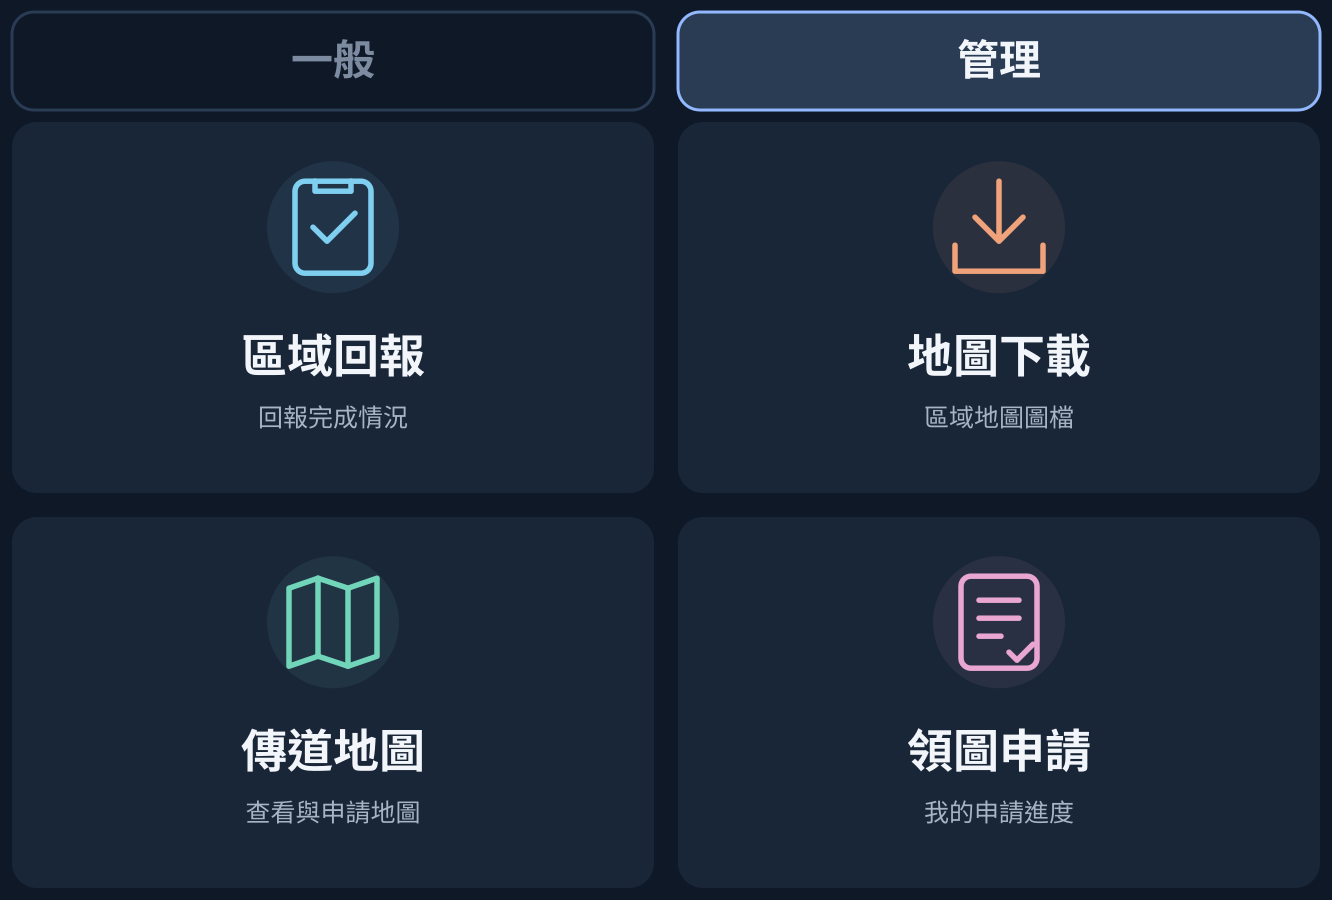
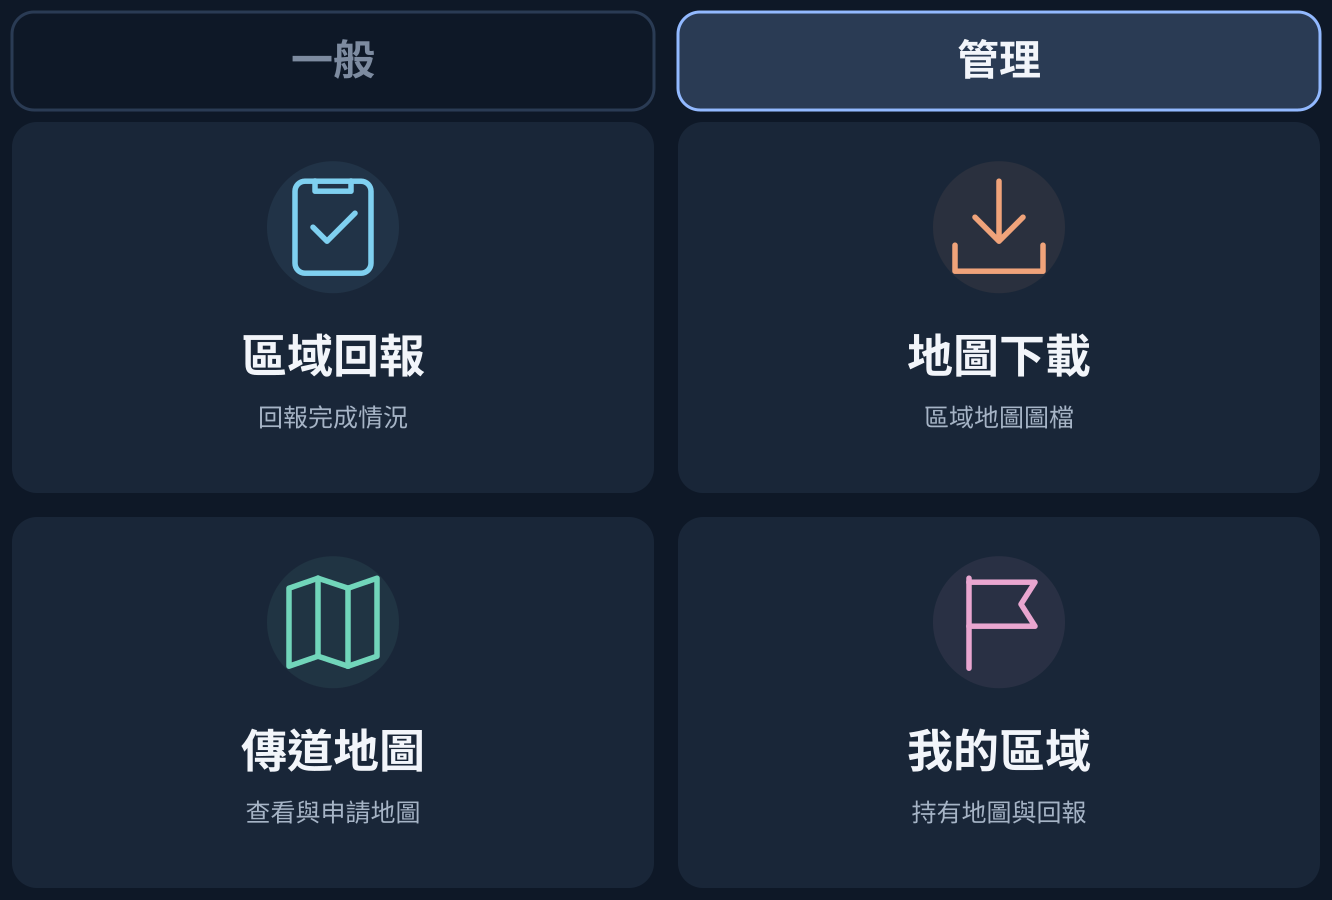
feat: LINE 管理頁領圖申請格改為我的區域，選單升 v10（ADR-0125） (#89)
Claude-Session: https://claude.ai/code/session_01XDbjwN3A75eVUCukCexrnW

Changed region(s): [[0.6772, 0.8089, 0.8311, 0.9333], [0.708, 0.6222, 0.8003, 0.7467]]

diff --git a/src/lib/line-rich-menu.ts b/src/lib/line-rich-menu.ts
@@ -12,9 +12,9 @@ export type MenuKey = 'sister' | 'brother-general' | 'brother-manage' | 'admin-g
 export const menuKeys: MenuKey[] = ['sister', 'brother-general', 'brother-manage', 'admin-general', 'admin-manage']
 const tabbedKeys = menuKeys.filter(key => key !== 'sister') as Exclude<MenuKey, 'sister'>[]
 const liffId = configuredLiffId()
-const stateKey = (key: MenuKey) => liffId ? `line_rich_menu_v9_${key}_liff_${liffId}` : `line_rich_menu_v9_${key}`
+const stateKey = (key: MenuKey) => liffId ? `line_rich_menu_v10_${key}_liff_${liffId}` : `line_rich_menu_v10_${key}`
 // Alias ids are per channel: [a-z0-9_-], at most 32 characters.
-export const aliasId = (key: MenuKey) => `cms-v9-${key}`
+export const aliasId = (key: MenuKey) => `cms-v10-${key}`
 const menuUrl = (view: string) => liffId ? `https://liff.line.me/${liffId}/?view=${view}` : `${botSite}${liffDestination(view)}`
 const lockKey = 'line_rich_menu_publish_lock'
 const api = 'https://api.line.me/v2/bot'
@@ -23,7 +23,7 @@ const uri = (view: string) => ({ type: 'uri' as const, uri: menuUrl(view) })
 const tiles: Record<string, { type: 'uri'; uri: string } | { type: 'message'; text: string }> = {
   publicTalks: uri('public-talks'), midweekMeeting: uri('midweek-meeting'), announcementsView: uri('announcements'), groups: uri('ministry-groups'),
   meetingPoints: uri('meeting-points'), serviceRoster: uri('service-roster'), dashboard: uri('dashboard'), assignments: { type: 'message', text: '我的委派' }, territory: uri('territory'),
-  report: uri('report'), mapDownload: uri('map-images'), myRequests: uri('requests'),
+  report: uri('report'), mapDownload: uri('map-images'), myAreas: uri('maps'),
   roster: uri('roster'), midweek: uri('midweek'), announcements: uri('manage-announcements'), members: uri('members'),
 }
 // Same rows and sizes as scripts/create-line-menu.cjs, which draws the images.
@@ -31,9 +31,9 @@ const general = [['publicTalks', 'midweekMeeting', 'announcementsView', 'groups'
 const layouts: Record<MenuKey, { width: number; height: number; label: string; tab: 'general' | 'manage' | null; rows: string[][] }> = {
   sister: { width: 1332, height: 674, label: '一般', tab: null, rows: general },
   'brother-general': { width: 1332, height: 900, label: '弟兄一般', tab: 'general', rows: general },
-  'brother-manage': { width: 1332, height: 900, label: '弟兄管理', tab: 'manage', rows: [['report', 'mapDownload'], ['territory', 'myRequests']] },
+  'brother-manage': { width: 1332, height: 900, label: '弟兄管理', tab: 'manage', rows: [['report', 'mapDownload'], ['territory', 'myAreas']] },
   'admin-general': { width: 1332, height: 900, label: '管理者一般', tab: 'general', rows: general },
-  'admin-manage': { width: 1332, height: 900, label: '管理者管理', tab: 'manage', rows: [['report', 'mapDownload', 'roster', 'midweek'], ['territory', 'myRequests', 'announcements', 'members']] },
+  'admin-manage': { width: 1332, height: 900, label: '管理者管理', tab: 'manage', rows: [['report', 'mapDownload', 'roster', 'midweek'], ['territory', 'myAreas', 'announcements', 'members']] },
 }
 const BAR = 110
 function definition(key: MenuKey) {
@@ -46,7 +46,7 @@ function definition(key: MenuKey) {
   })) : []
   return {
     size: { width, height }, selected: true,
-    name: `楠梓會眾${label}選單 v9`, chatBarText: '開啟功能選單',
+    name: `楠梓會眾${label}選單 v10`, chatBarText: '開啟功能選單',
     areas: [...tabAreas, ...rows.flatMap((keys, row) => {
       const cell = Math.floor(width / keys.length), y = top + row * rowH
       return keys.map((name, i) => ({

diff --git a/src/app/area-status/page.tsx b/src/app/area-status/page.tsx
@@ -1,7 +1,7 @@
 'use client'
 
 import { useEffect, useRef, useState } from 'react'
-import { UserRound, CalendarDays, Undo2, Send, ClipboardPlus, ChevronDown, MapPinned, ListChecks, Settings2, Download, RefreshCw, type LucideIcon } from 'lucide-react'
+import { UserRound, CalendarDays, Undo2, Send, ClipboardPlus, ChevronDown, MapPinned, ListChecks, Settings2, Download, RefreshCw, ClipboardCheck, type LucideIcon } from 'lucide-react'
 import DashboardLayout from '../../components/layout/DashboardLayout'
 import DispatchSubmitBar from '../../components/map/DispatchSubmitBar'
 import RequestSubmitBar from '../../components/map/RequestSubmitBar'
@@ -157,6 +157,7 @@ export default function AreaStatusPage() {
           {Object.entries(DISTRICT_NAMES).map(([id, name]) => <button key={id} type="button" disabled={actionBusy} aria-pressed={mapId === id} onClick={() => setMapId(id)} className={`min-h-11 rounded-md px-2.5 sm:px-3 py-1.5 text-sm transition-colors disabled:opacity-40 ${mapId === id ? 'bg-mc-highlight text-white' : 'text-mc-text/60 hover:bg-white/5'}`}>{name}</button>)}
         </div>
         <button onClick={() => setRevision(v => v + 1)} disabled={loading || actionBusy} aria-label="重新整理" className="flex min-h-11 items-center gap-1.5 rounded-lg border border-white/10 px-3 py-2 text-sm disabled:opacity-40"><RefreshCw size={15} aria-hidden="true" /><span className="hidden sm:inline">重新整理</span></button>
+        <a href="/map-requests" className="hidden min-h-11 md:flex items-center gap-1.5 rounded-lg border border-white/10 px-3 py-2 text-sm text-blue-200 hover:bg-white/5"><ClipboardCheck size={15} aria-hidden="true" />領圖申請</a>
       </div>
     </header>
     {jumpMessage && <p role="status" className="shrink-0 text-sm text-amber-300">{jumpMessage}</p>}
@@ -202,7 +203,7 @@ export default function AreaStatusPage() {
                 <RecentReports entries={currentHistory?.entries?.[r.number]} failed={currentHistory?.failed === true} />
               </article>
             })}</div>
-          </> : <div className="py-6 text-center"><p className="text-2xl text-mc-text/30">◎</p><h2 className="mt-2 font-semibold">點選地圖，查看區域</h2><p className="mt-2 text-sm text-mc-text/50">查看多久未完成回報，<br />將想領取的地圖加入下方清單。</p></div>}
+          </> : <div className="py-6 text-center"><p className="text-2xl text-mc-text/30">◎</p><h2 className="mt-2 font-semibold">點選地圖，查看區域</h2><p className="mt-2 text-sm text-mc-text/50">查看多久未完成回報，<br />將想領取的地圖加入下方清單。</p><a href="/map-requests" className="mt-3 inline-flex min-h-11 items-center gap-1.5 text-sm text-blue-300 underline underline-offset-4 md:hidden"><ClipboardCheck size={15} aria-hidden="true" />查看領圖申請</a></div>}
         </section>
         </div>
         {infoOpen && selected && actionBar('hidden md:flex')}

diff --git a/docs/adr/0125-line-menu-my-areas.md b/docs/adr/0125-line-menu-my-areas.md
@@ -1,0 +1,19 @@
+# ADR-0125：LINE 管理頁領圖申請格改為我的區域
+
+2026-11-14，已接受。修訂 ADR-0122 的管理頁版面。
+
+## 背景
+
+使用者覺得 LINE 管理頁「傳道地圖」和「領圖申請」重複：兩格都在處理拿地圖，而且傳道地圖頁本來就能選地圖、提交領圖申請。空出的格改放弟兄更常用的「我的區域」。
+
+## 決策
+
+- 「領圖申請」格改為「我的區域」（副標「持有地圖與回報」），開 `/dashboard?view=maps`，捲到我的看板的「我的地圖」段落：列出持有的地圖、持有天數、拒訪筆數，展開可看小地圖與提交區域回報。不另做新頁，沿用看板既有內容。LIFF view 為 `maps`。
+- 領圖申請併入傳道地圖：提交申請照舊在傳道地圖的申請清單；傳道地圖頁新增「領圖申請」連結到 `/map-requests`（查看自己的申請進度，管理者在同頁審核）。電腦版放頁首；手機版頁首空間不夠，放在未選地圖時的說明下方，申請清單內的「查看申請」連結保留。
+- 弟兄與管理者管理頁同樣更換，位置不變（左下第二格）。
+- 選單圖片改變，狀態鍵與 alias 升為 v10（`line_rich_menu_v10_*`、`cms-v10-*`），部署後需在「我的看板→管理工具→底部圖文選單」再按一次「發布至 LINE」。
+
+## 不變
+
+- 一般頁與姊妹版選單不變；側欄「領圖申請」與待辦中心的審核入口不變；`/map-requests` 頁與 LIFF view `requests` 保留，舊連結仍可用。
+- 沒有勾選「可派發」的成員看板不顯示我的地圖，點我的區域會落到我的委派（既有行為）。

diff --git a/CONTEXT.md b/CONTEXT.md
@@ -1,5 +1,7 @@
 # 地圖分配系統 — 領域詞彙表
 
+- 2026-11-14：使用者覺得 LINE 管理頁「傳道地圖」和「領圖申請」重複。「領圖申請」格改成「我的區域」，開我的看板的「我的地圖」段落（持有哪幾張、領了幾天、提交回報）；申請領圖本來就在傳道地圖裡，傳道地圖頁另外加「領圖申請」入口（電腦版在頁首，手機版在未選地圖時的說明下方）查看申請進度或審核。管理者管理頁同步更換。選單升 v10 需重新發布。詳見 ADR-0125。
+
 - 2026-11-14：使用者要求刪除「手機雙指縮放、電腦 Ctrl＋滾輪縮放」這類操作提示文字（PDF 閱讀器、地圖下載全圖檢視、傳道小地圖、週中節目表無障礙標籤），縮放功能保留。詳見 ADR-0124。
 
 - 2026-11-12：使用者反映地圖分配在手機上選好地圖要一直往下滑才按得到「加入分發」，且已選幾張不清楚。手機版畫面最下方固定領圖操作列（加入分發／申請按鈕＋「已選 N 張」，按下展開清單），電腦版放在地圖資訊底部；手機頁首精簡成一列。詳見 ADR-0123。
